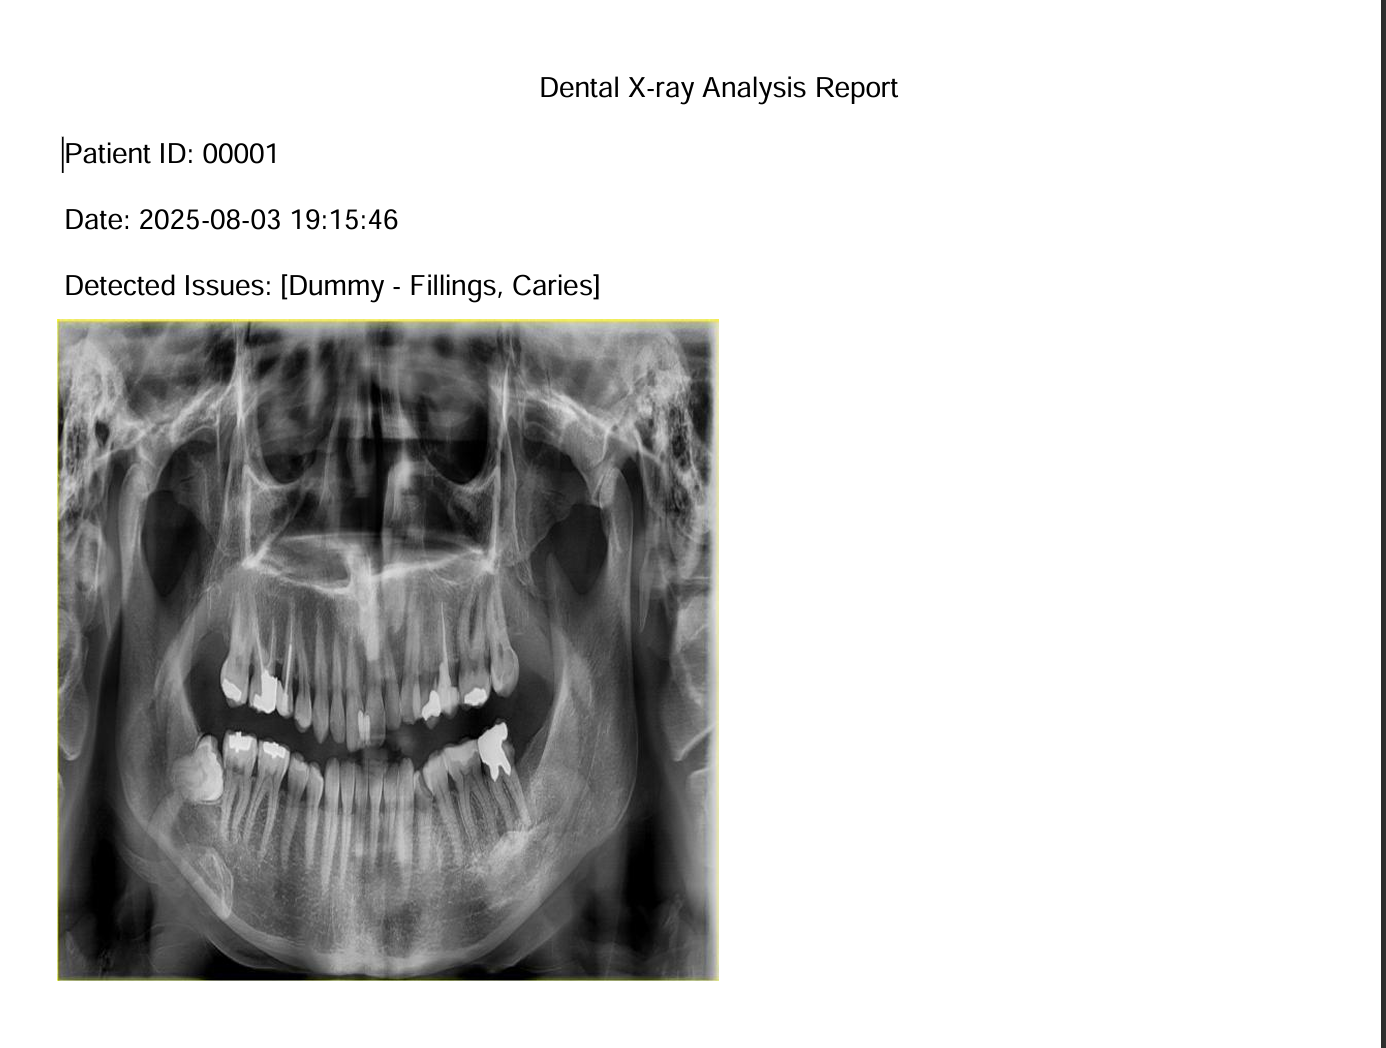
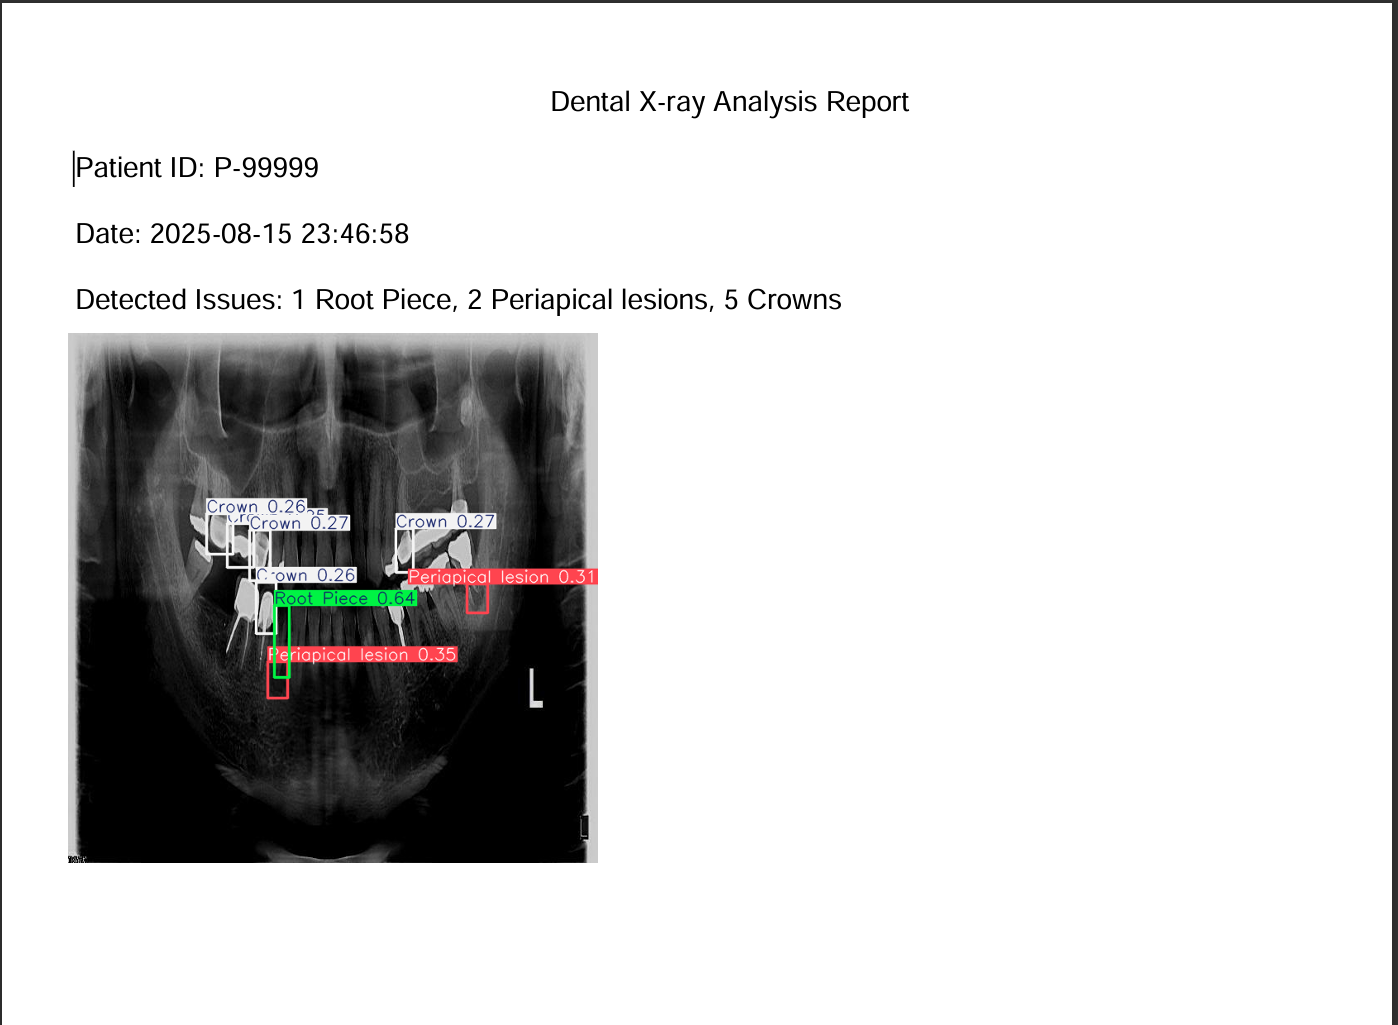
screenshoot for Detection interface

diff --git a/README.md b/README.md
@@ -38,10 +38,11 @@ An AI-powered assistant that automates detection of key dental structures or iss
 
 
 ## 📸 App Preview
+## 📸 App Preview
 
-| Upload Panel                         | Output + PDF |
-|-------------------------------------|--------------|
-| ![UI](./screenshots/UI.PNG) | ![PDF](./screenshots/pdf.PNG) |
+| Upload Panel                         | Output + PDF | Detection Screenshot |
+|--------------------------------------|--------------|----------------------|
+| ![UI](./screenshots/UI.PNG) | ![PDF](./screenshots/pdf.png) | ![Detection](./screenshots/Detection.png) |
 
 ---
 
